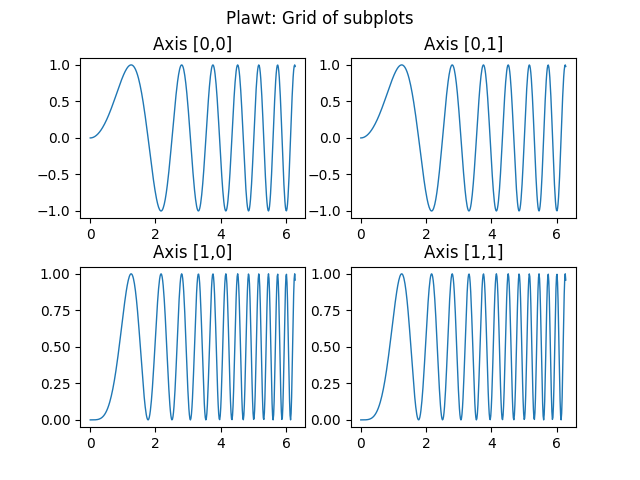
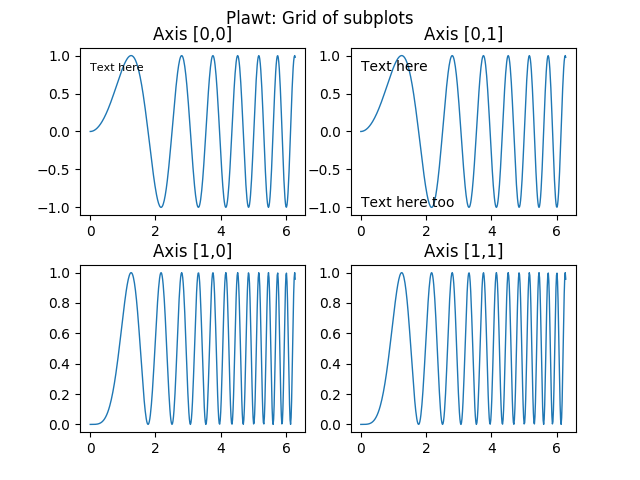
add text annotations through the 'text' keyword

diff --git a/examples/subplotgridtest.py b/examples/subplotgridtest.py
@@ -13,8 +13,11 @@ f, axarr = plt.subplots(2, 2)
 f.suptitle('Matplotlib: Grid of subplots')
 axarr[0, 0].plot(x, y)
 axarr[0, 0].set_title('Axis [0,0]')
+axarr[0, 0].text(0, 0.8, 'Text here', fontsize=8)
 axarr[0, 1].plot(x, y)
 axarr[0, 1].set_title('Axis [0,1]')
+axarr[0, 1].text(0, 0.8, 'Text here')
+axarr[0, 1].text(0, -1.0, 'Text here too')
 axarr[1, 0].plot(x, y ** 2)
 axarr[1, 0].set_title('Axis [1,0]')
 axarr[1, 1].plot(x, y ** 2)
@@ -30,10 +33,13 @@ plawt.plot({
 	'title': 'Plawt: Grid of subplots',
 	'subtitle': 'Axis [0,0]',
 	'hspace': 0.3,
+	'text': {'x':0, 'y':0.8, 's': 'Text here', 'fontsize': 8},
 	'filename': 'plawtsubplotgrid.png'
 }, {
 	0: {'x': x, 'y': y},
-	'subtitle': 'Axis [0,1]'
+	'subtitle': 'Axis [0,1]',
+	'text': [{'x':0, 'y':0.8, 's': 'Text here'},
+			 {'x':0, 'y':-1.0, 's':'Text here too'}],
 }, {
 	0: {'x': x, 'y': y**2},
 	'subtitle': 'Axis [1,0]'

diff --git a/plawt.py b/plawt.py
@@ -115,6 +115,13 @@ def plot(*plotStructs):
 					fontdict = plotStruct['subtitledict'] if 'subtitledict' in plotStruct else None
 					ax.set_title(val, fontdict=fontdict, fontsize=fontsize, loc=loc)
 
+				if key == 'text':
+					if not isinstance(val, list):
+						val = [val,]
+					for v in val:
+						textx, texty, s = v.pop('x'), v.pop('y'), v.pop('s')
+						ax.text(textx, texty, s, **v)
+
 	plt.tight_layout(**globalParams['tight_layout']) if 'tight_layout' in globalParams else None
 	fig.subplots_adjust(hspace=hspace, wspace=wspace, top=top, bottom=bottom, right=right, left=left)
 

diff --git a/setup.py b/setup.py
@@ -1,7 +1,7 @@
 from setuptools import setup
 setup(
 	name = 'plawt',
-	version = '1.1.13',
+	version = '1.1.14',
 	description = 'JSON-like sugar for plotting with matplotlib',
 	long_description = 'JSON-like sugar for plotting with matplotlib',
 	author = 'Mohammed Chamma',

diff --git a/README.md b/README.md
@@ -1,6 +1,6 @@
 plawt - JSON-like sugar for matplotlib
 ============
-Because sometimes you just want a good looking plot goddamnit.
+Because sometimes you just want a good looking plot damnit.
 I don't like context switching from physics to python, and hopefully this will let me do less of it.
 
 Installation
@@ -25,6 +25,7 @@ In addition to any usual single panel plot `plawt` also wraps these matplotlib f
 * tight_layout
 * matplotlib style (`plt.style.use()`)
 * Tick parameters (`axes.tick_params`)
+* Text annotations
 
 Example
 =======
@@ -185,8 +186,6 @@ plt.show
 ## Or even just
 plawt.plot(plotDictionary).show()
 ```
-
-And that's the waaaaay it goes
 
 ---
 Copyright © 2017 Mohammed Chamma
